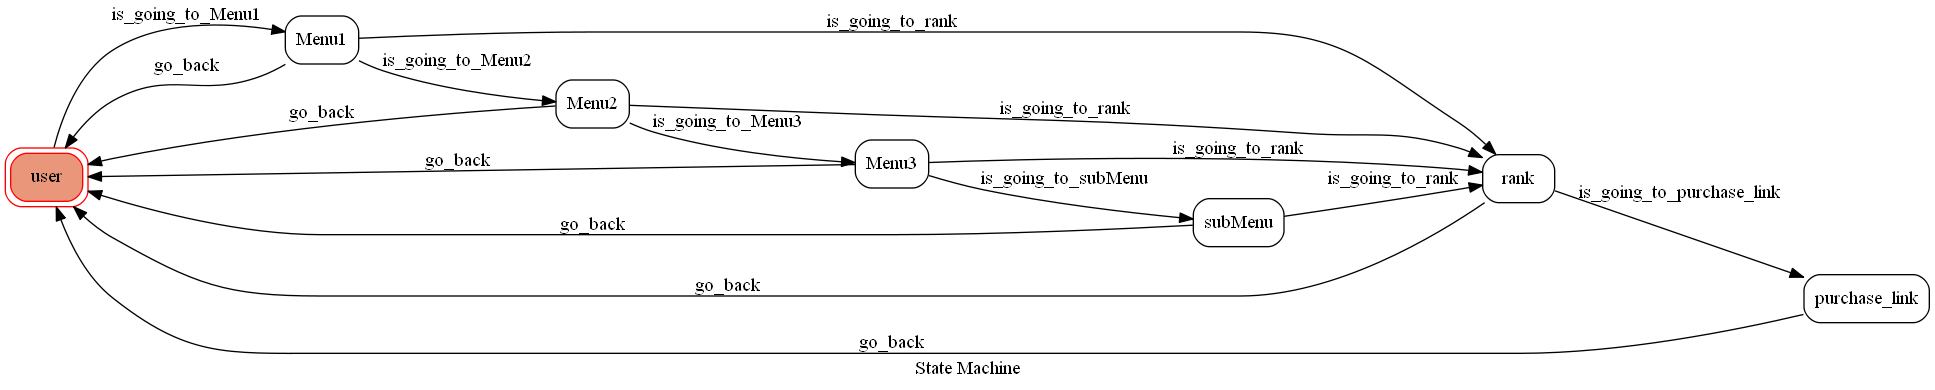
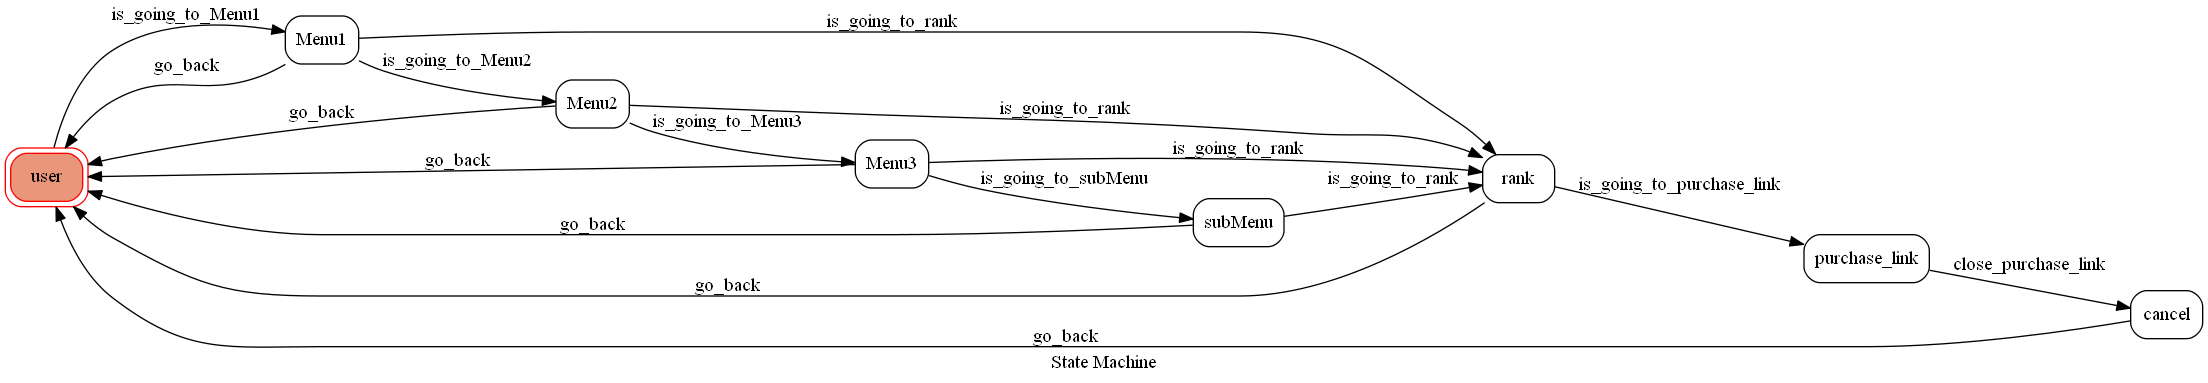
add smth

diff --git a/medLinebot/fsm.py b/medLinebot/fsm.py
@@ -5,13 +5,13 @@ class TocMachine(object):
    
     def __init__(self, **machine_configs):
         self.machine = Machine(model=self,use_pygraphviz=False, **machine_configs)
-'''
+
     def drawFSM(self):
         self.get_graph().draw('my_state_diagram.png', prog='dot')
-'''
+
 
 machine = TocMachine(
-    states=["user", "Menu1", "Menu2","Menu3","subMenu","rank","purchase_link"],
+    states=["user", "Menu1", "Menu2","Menu3","subMenu","rank","purchase_link","cancel"],
     transitions=[
         {
             "trigger": "is_going_to_Menu1",
@@ -38,14 +38,19 @@ machine = TocMachine(
             "source": "rank",
             "dest": "purchase_link",
         },
+        {
+            "trigger": "close_purchase_link",
+            "source": "purchase_link",
+            "dest": "cancel",
+        },
         {"trigger": "is_going_to_rank", "source": ["Menu1", "Menu2","Menu3","subMenu"], "dest": "rank"},
-        {"trigger": "go_back", "source": ["Menu1", "Menu2","Menu3","subMenu","rank","purchase_link"], "dest": "user"}
+        {"trigger": "go_back", "source": ["Menu1", "Menu2","Menu3","subMenu","rank","cancel"], "dest": "user"}
     ],
     initial="user",
     auto_transitions=False,
     show_conditions=True,
 )    
-#machine.drawFSM()
+machine.drawFSM()
 
 
         

diff --git a/medLinebot/views.py b/medLinebot/views.py
@@ -23,7 +23,6 @@ from .scraper import MyBest
 
 line_bot_api = LineBotApi(settings.LINE_CHANNEL_ACCESS_TOKEN)
 parser = WebhookParser(settings.LINE_CHANNEL_SECRET)
- 
 
 @csrf_exempt
 def callback(request):
